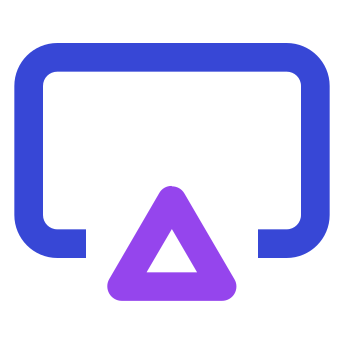
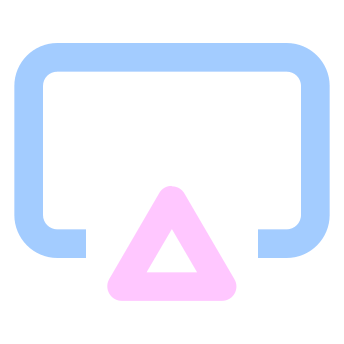
dark background

Changed region(s): [[0.0291, 0.1163, 0.9593, 0.7558], [0.2907, 0.5233, 0.6977, 0.8721]]

diff --git a/styles.css b/styles.css
@@ -42,7 +42,8 @@
 body {
     margin: 0;
     overflow: hidden;
-    background: white;
+    background: url('bg.jpg');
+    background-size: cover;
     font-family: var(--main-font);
     white-space: nowrap;
 }
@@ -74,7 +75,7 @@ div {
     border-radius: 5vh;
     border: none;
     transition: 0.1s;
-    background: #f0f0f0;
+    background: rgba(0, 0, 0, 0.2);
     cursor: pointer;
 }
 
@@ -126,7 +127,7 @@ div {
 }
 
 .title {
-    color: #555;
+    color: #fff;
     font-family: var(--main-font);
     font-weight: 400;
     font-size: 6vh;
@@ -138,14 +139,14 @@ div {
 }
 
 .subtitle {
-    color: rgb(158, 158, 158);
+    color: #eee;
     font-family: var(--main-font);
     font-weight: 300;
     font-size: 4vh;
 }
 
 .langSelect {
-    color: black;
+    color: white;
     font-family: var(--main-font);
     font-size: 5vh;
     border-radius: 100vh;
@@ -161,20 +162,21 @@ div {
 .selected {
     background: rgb(210, 210, 210);
     font-weight: 500;
+    color: #000
 }
 
 .freeWidth {
     width: auto;
     padding: 0 2vw;
-    background: rgb(226, 226, 226);
+    background: rgba(0, 0, 0, 0.2);
     font-size: 4vh;
     height: auto;
     margin-right: 2vw
 }
 
 .selectedFree {
-    background: rgb(40, 40, 40);
-    color: white;
+    background: rgba(255, 255, 255, 0.7);
+    color: black;
 }
 
 button {
@@ -183,14 +185,14 @@ button {
 
 .buttonAlt {
     font-family: var(--main-font);
-    color: #111;
+    color: #fff;
     font-weight: 500;
     font-size: 4vh;
     /* letter-spacing: 2px; */
 }
 
 .secondaryAlt {
-    color: #333;
+    color: #eee;
     font-weight: 300;
     font-size: 2.5vh;
     display: none;

diff --git a/index.html b/index.html
@@ -15,7 +15,7 @@
     <style>
         .material-symbols-outlined {
             font-variation-settings: 'FILL' 0, 'wght' 400, 'GRAD' 0, 'opsz' 48;
-            color: #444;
+            color: #fff;
             font-size: 15vh;
         }
     </style>
